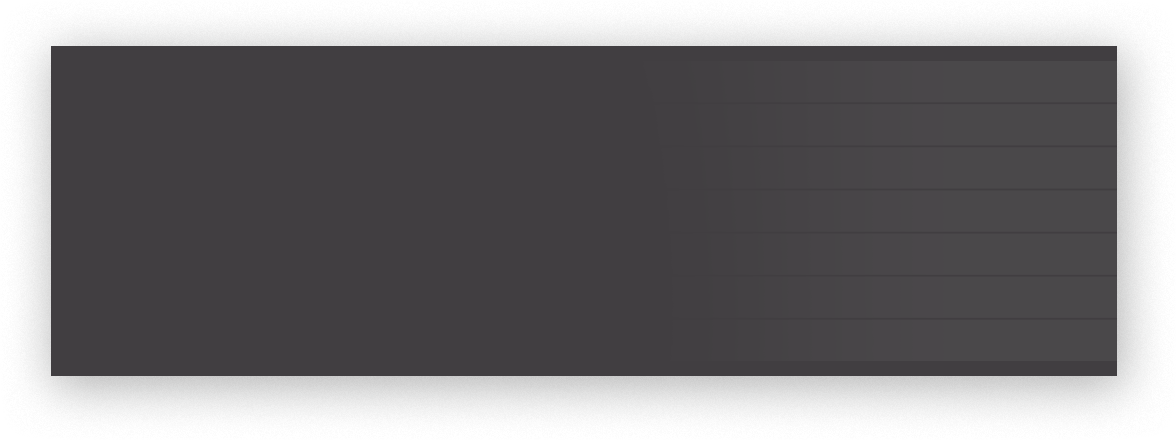
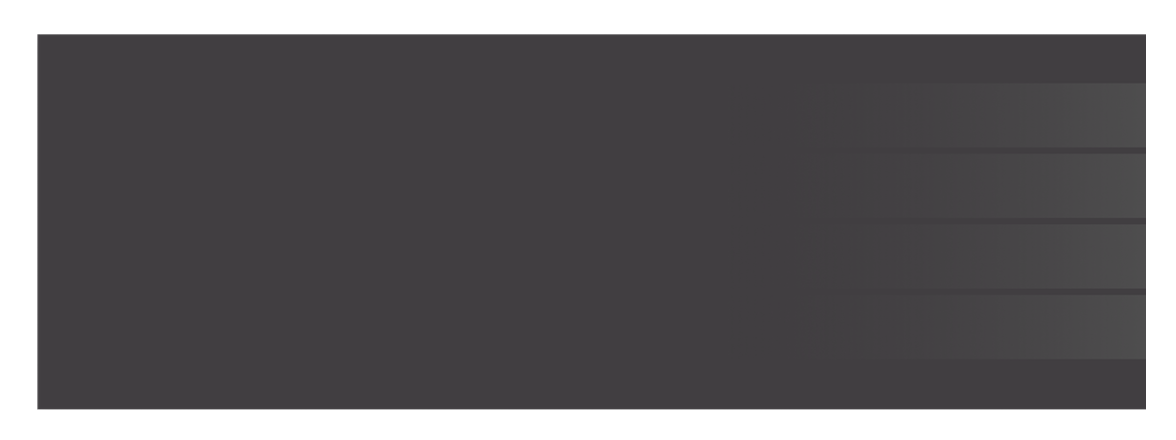
INS-895

Changed region(s): [[0.0306, 0.0591, 0.9796, 0.9455]]

diff --git a/src/pages/landing/components/statsView.js b/src/pages/landing/components/statsView.js
@@ -55,46 +55,12 @@ const LandingStatsView = ({ classes, stats, statsData }) => {
     marginRight: '-15px',
   };
 
-  const statBarDatasets = {
-    borderRadius: '50px 0px 0px 50px',
-    backgroundImage: 'linear-gradient(to right, #fcb333, #c98000)',
-    padding: '10px',
-    width: `calc(${Math.log10(statsData.numberOfDatasets) * 75}px)`,
-    height: '40px',
-    float: 'right',
-    marginTop: '-15px',
-    marginRight: '-15px',
-  };
-
-  const statBarClinicalTrials = {
-    borderRadius: '50px 0px 0px 50px',
-    backgroundImage: 'linear-gradient(to right, #32a8be, #00758b)',
-    padding: '10px',
-    width: `calc(${Math.log10(statsData.numberOfClinicalTrials) * 75}px)`,
-    height: '40px',
-    float: 'right',
-    marginTop: '-15px',
-    marginRight: '-15px',
-  };
-
-  const statBarPatents = {
-    borderRadius: '50px 0px 0px 50px',
-    backgroundImage: 'linear-gradient(to right, #95929a, #625f67)',
-    padding: '10px',
-    width: `calc(${Math.log10(statsData.numberOfPatents) * 75}px)`,
-    height: '40px',
-    float: 'right',
-    marginTop: '-15px',
-    marginRight: '-15px',
-  };
+  let modifiedStats = stats;
+  modifiedStats = modifiedStats.slice(0, 4);
 
   return (
     <>
-      <div className={classnames({
-        [classes.statsSection]: stats.length < 7,
-        [classes.statsSectionCenter]: stats.length === 7,
-      })}
-      >
+      <div className={classes.statsSectionCenter}>
         <div className={classes.leftBox}>
           <div className={classes.leftGroup}>
             <div className={classes.leftText}>
@@ -108,15 +74,10 @@ const LandingStatsView = ({ classes, stats, statsData }) => {
           </div>
         </div>
         <div className="statsBox">
-          {stats.length > 0 && (
-            <div
-              className={classnames({
-                [classes.boxCut]: stats.length < 7,
-                [classes.box]: stats.length === 7,
-              })}
-            >
+          {modifiedStats.length > 0 && (
+            <div className={classes.box}>
               {
-                stats.map((stat, index) => (
+                modifiedStats.map((stat, index) => (
                   <div className={classes.statsGroup}>
                     <div className={classes.statsText}>
                       <div className="statsFadeIn">
@@ -128,7 +89,7 @@ const LandingStatsView = ({ classes, stats, statsData }) => {
                         </div>
                       </div>
                       <div className="statsSlide">
-                        <div style={stat.statTitle === 'Programs' ? statBarPrograms : stat.statTitle === 'Projects' ? statBarProjects : stat.statTitle === 'Grants' ? statBarGrants : stat.statTitle === 'Publications' ? statBarPublications : stat.statTitle === 'Datasets' ? statBarDatasets : stat.statTitle === 'Clinical Trials' ? statBarClinicalTrials : statBarPatents} id={`bar_${index + 1}`} />
+                        <div style={stat.statTitle === 'Programs' ? statBarPrograms : stat.statTitle === 'Projects' ? statBarProjects : stat.statTitle === 'Grants' ? statBarGrants : statBarPublications} id={`bar_${index + 1}`} />
                       </div>
                     </div>
                   </div>
@@ -143,16 +104,6 @@ const LandingStatsView = ({ classes, stats, statsData }) => {
 };
 
 const styles = () => ({
-  statsSection: {
-    maxWidth: '1200px',
-    textAlign: 'right',
-    position: 'absolute',
-    left: 0,
-    right: 0,
-    margin: '-24px auto auto auto',
-    display: 'flex',
-    justifyContent: 'flex-end',
-  },
   statsSectionCenter: {
     background: '#403e41',
     backgroundImage: `url(${baseImg})`,
@@ -183,13 +134,6 @@ const styles = () => ({
     letterSpacing: '0.050pt',
     textTransform: 'uppercase',
     width: '869px',
-  },
-  boxCut: {
-    direction: 'ltr',
-    display: 'block',
-    borderBottom: '74px solid white',
-    borderLeft: '50px solid transparent',
-    height: '74px',
   },
   box: {
     direction: 'ltr',
